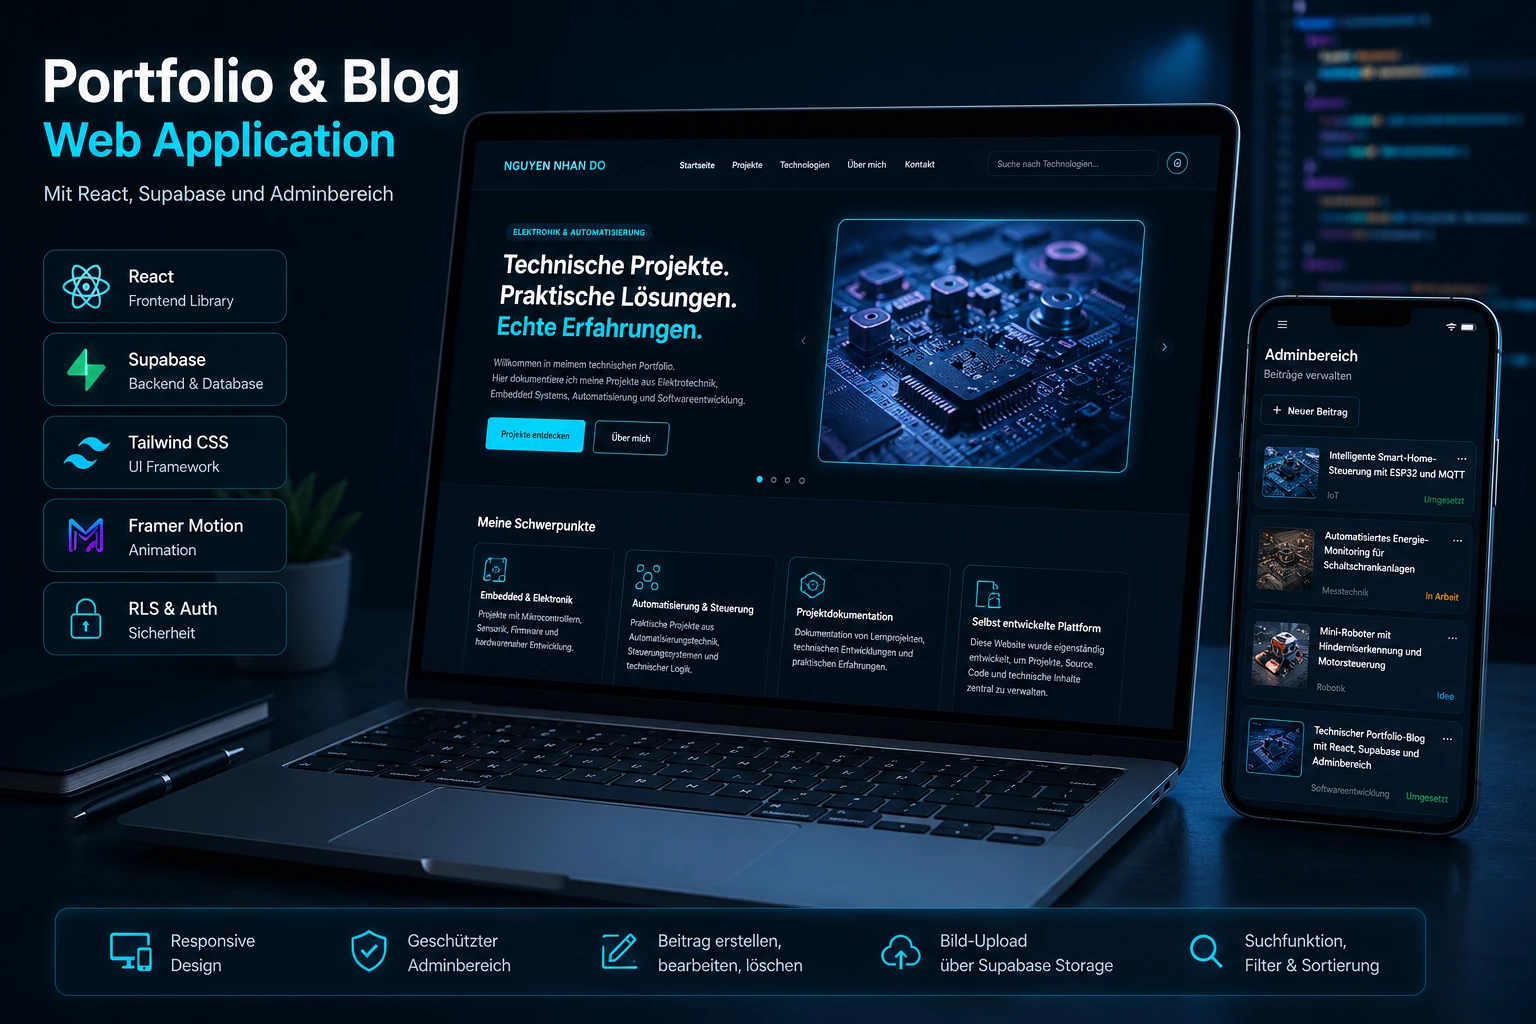
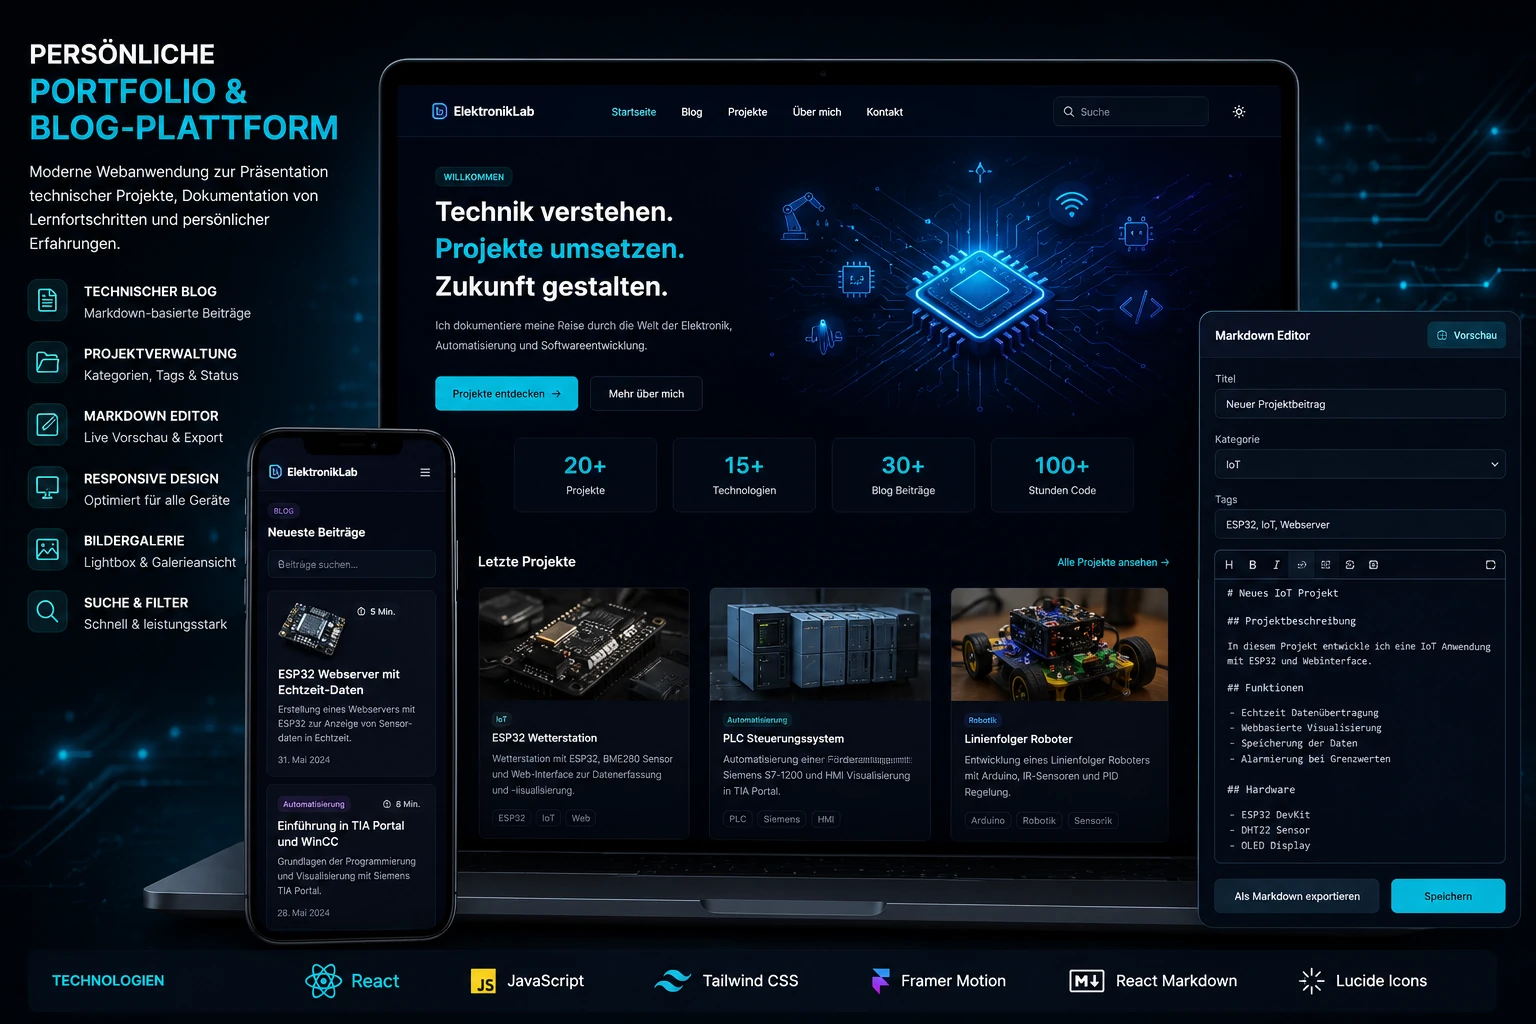
Updates

diff --git a/index.html b/index.html
@@ -8,7 +8,7 @@
       content="default-src 'self'; base-uri 'self'; object-src 'none'; script-src 'self'; style-src 'self' 'unsafe-inline'; img-src 'self' data: blob: https:; font-src 'self' data:; connect-src 'self'; media-src 'self'; worker-src 'self' blob:; form-action 'self'; upgrade-insecure-requests"
     />
     <title>Nguyen Nhan Do</title>
-    <script type="module" crossorigin src="/my-electronics-blog/assets/index-CIfwBXPT.js"></script>
+    <script type="module" crossorigin src="/my-electronics-blog/assets/index-IVpoaod3.js"></script>
     <link rel="stylesheet" crossorigin href="/my-electronics-blog/assets/index-BPgQYBNr.css">
   </head>
 